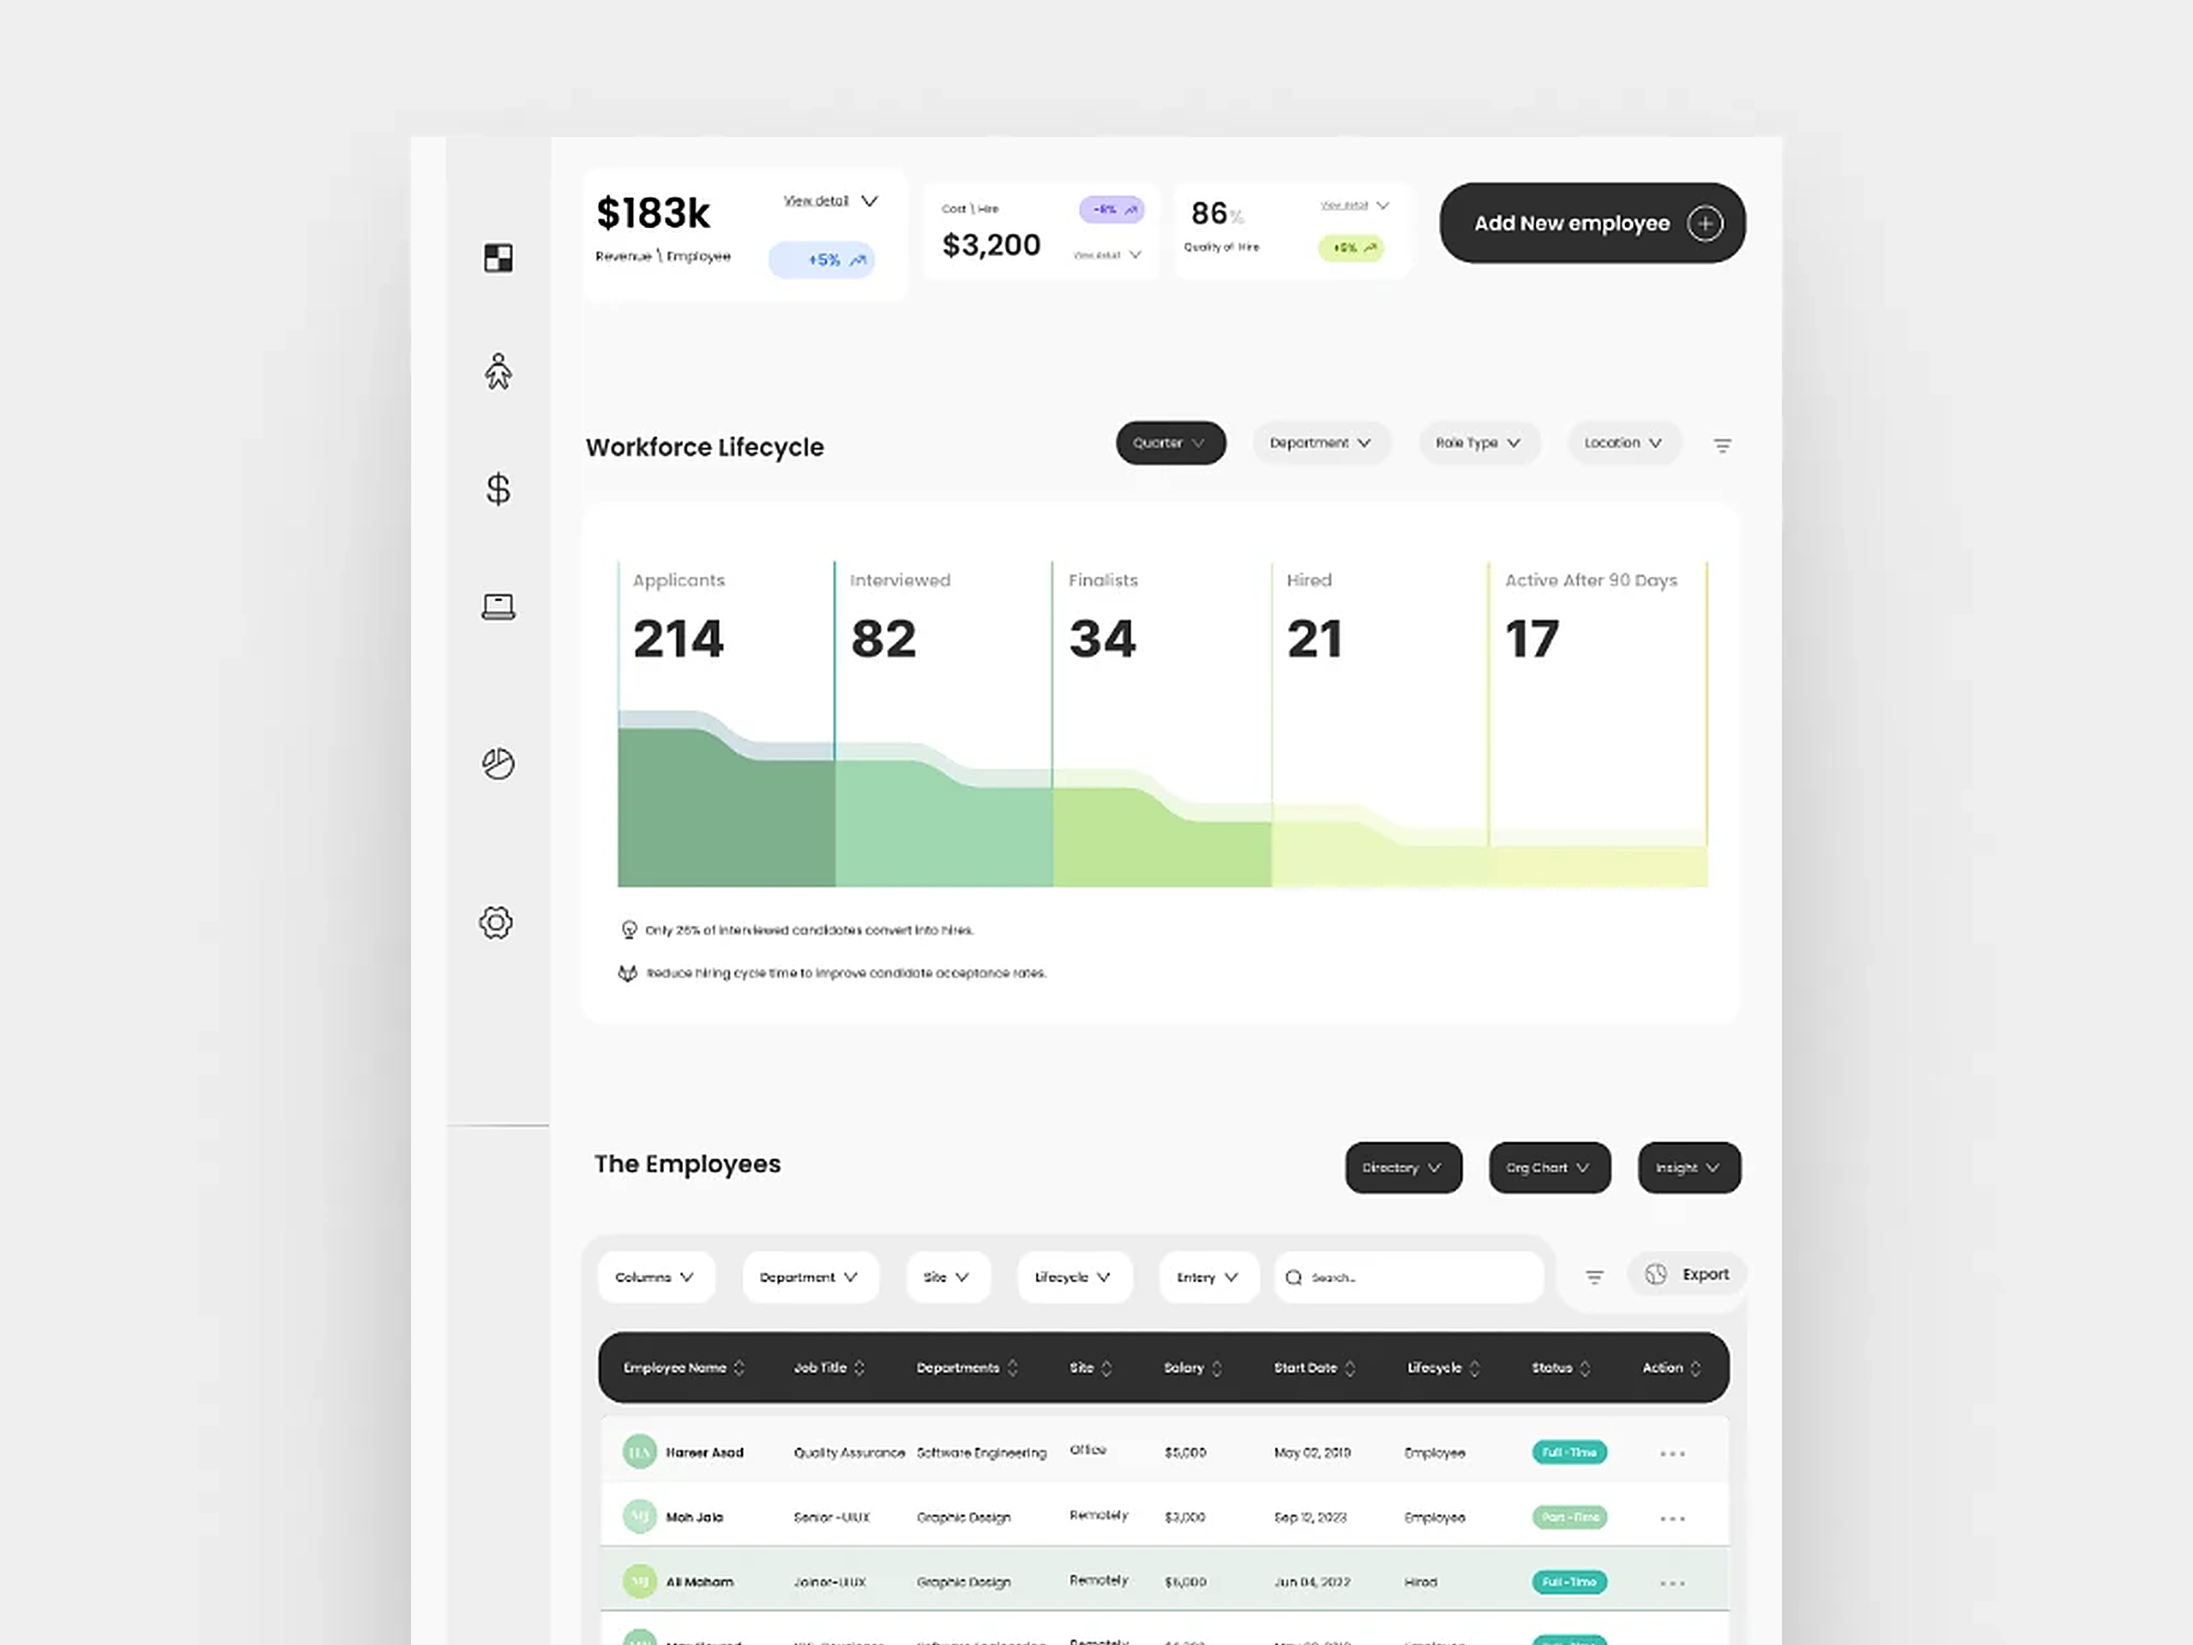
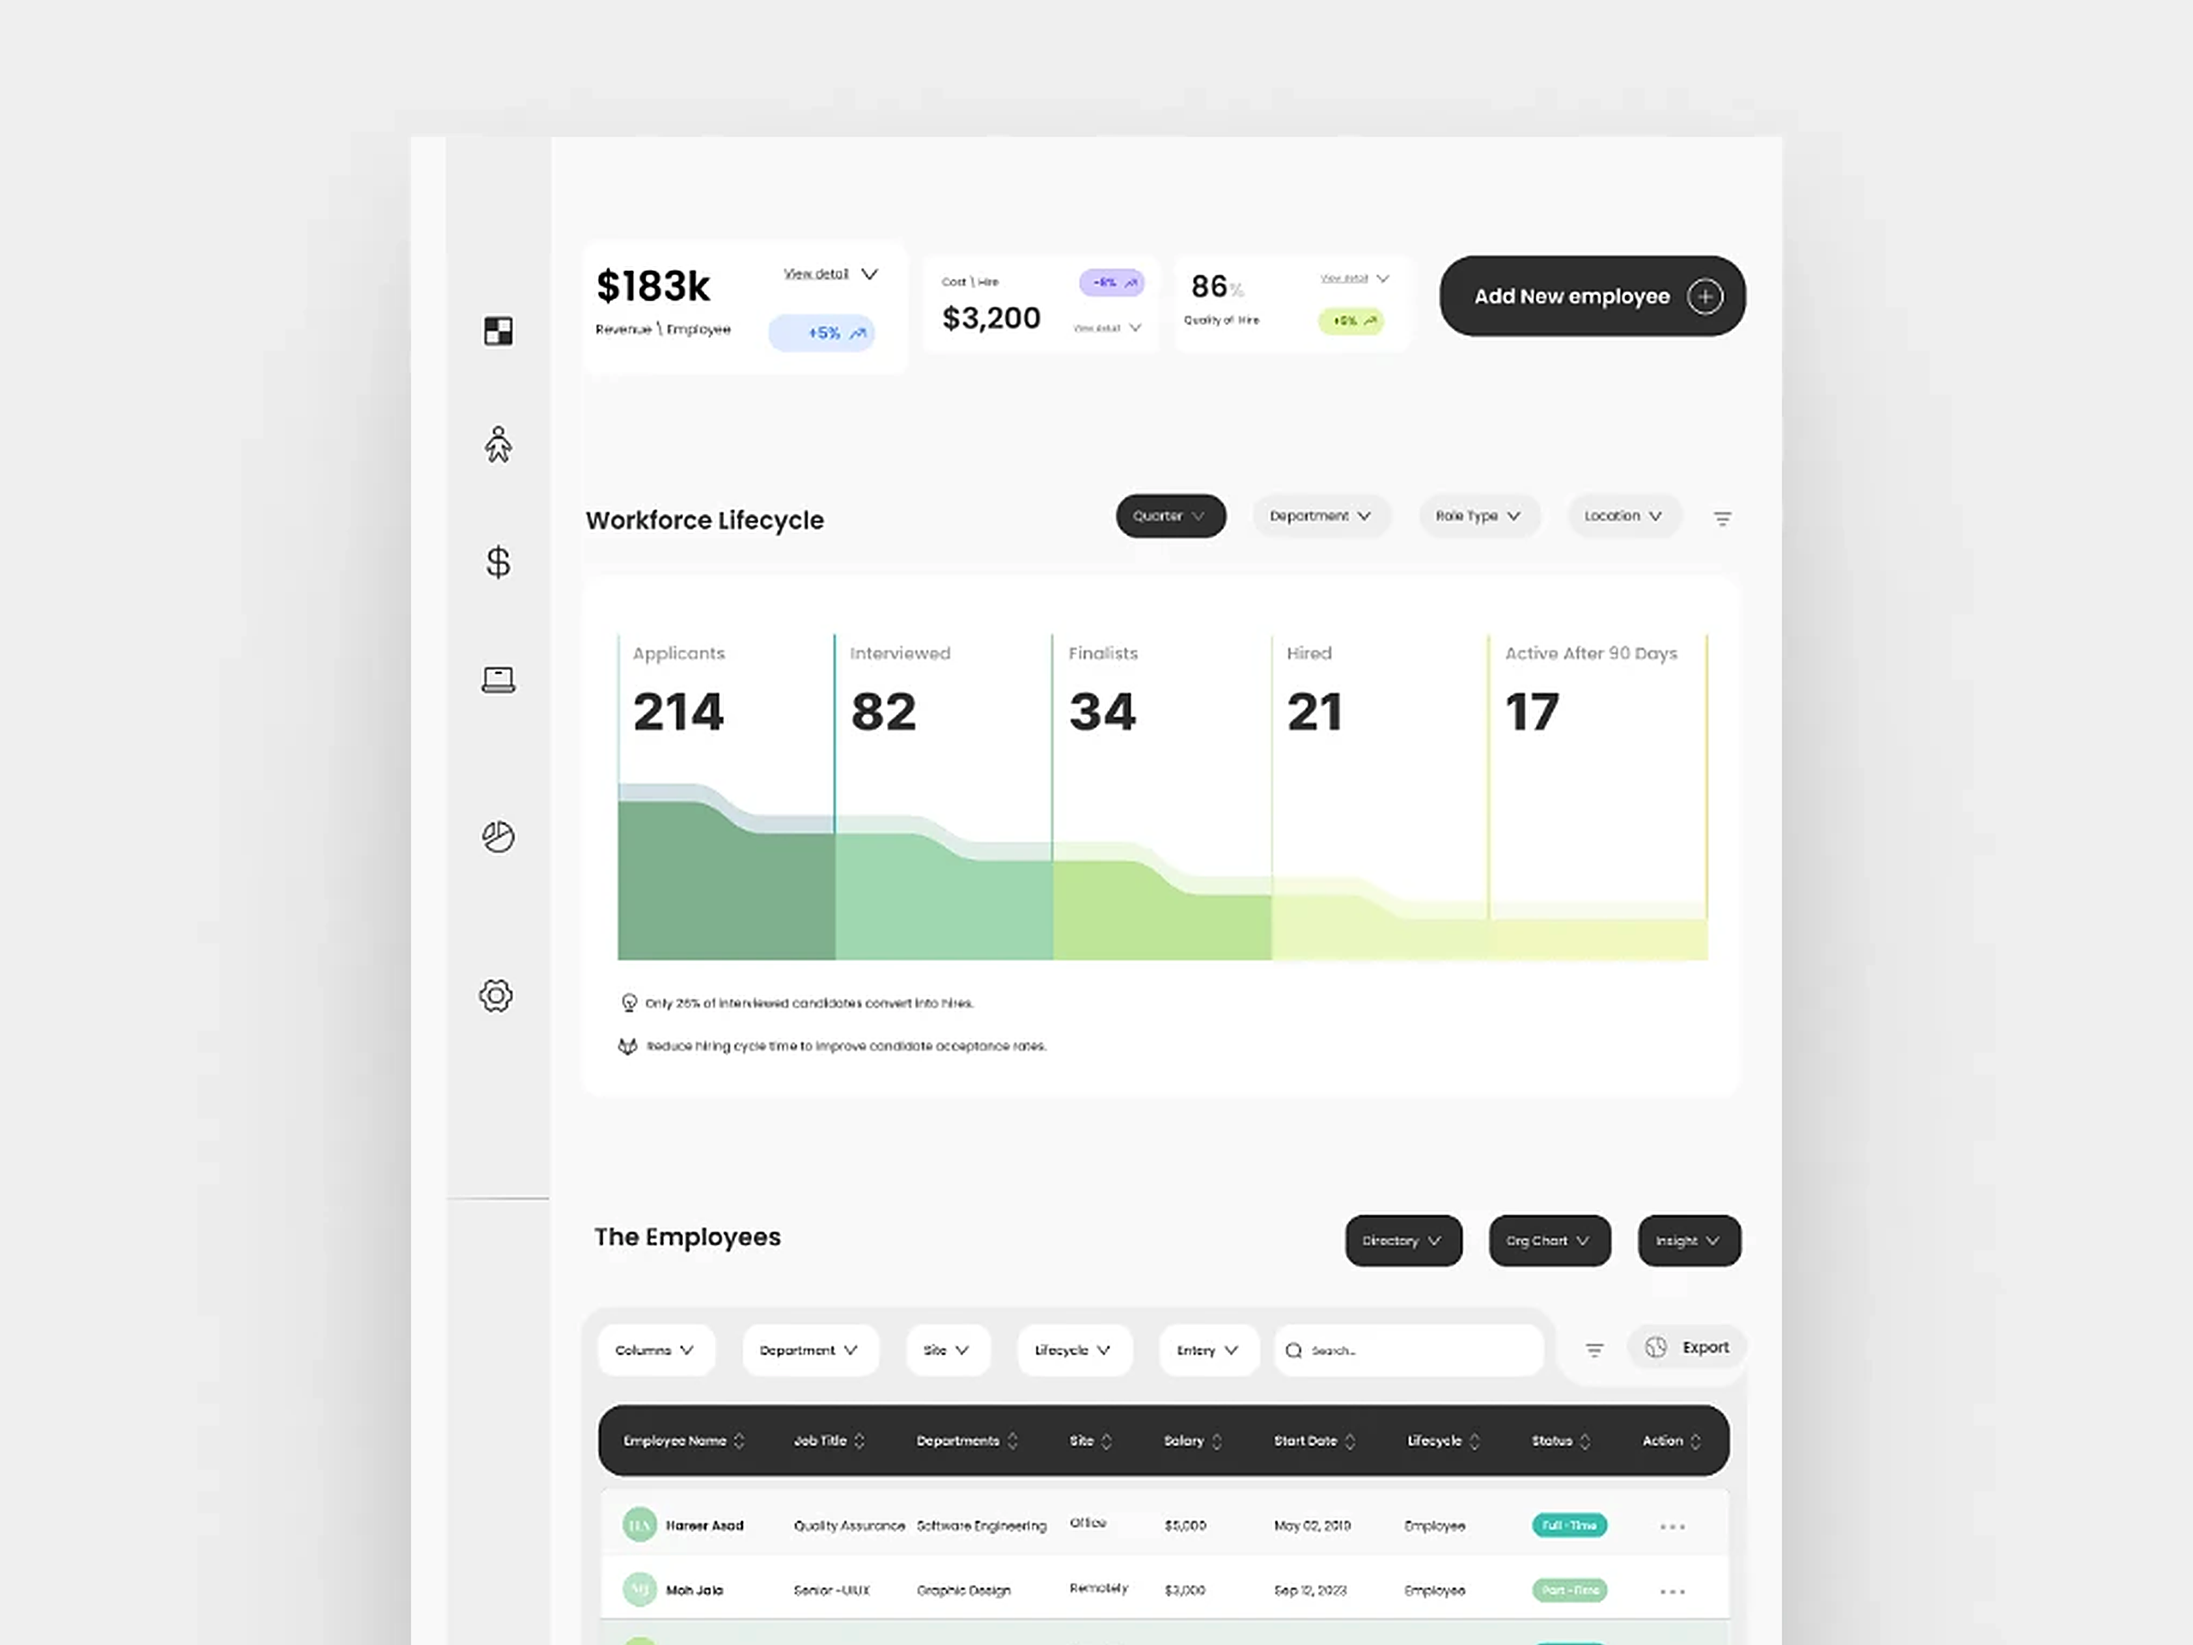
More top space: Employees card, Leave Requests monitor and every card of the tilted wall
Claude-Session: https://claude.ai/code/session_01FdYAnoP1AuAPuCnLWf7gdc

diff --git a/behance-cover/mockups/set28s.py b/behance-cover/mockups/set28s.py
@@ -8,7 +8,7 @@ I = '/tmp/claude-0/-home-user-claude-Ai-website-1/fd49522e-f0ff-52ed-b6c7-08cca4
 BG = (24, 24, 24)
 C_IN, C_OUT = (232, 232, 232), (232, 232, 232)   # flat soft neutral grey, as the Integration reference
 SN = {   # source, x0, y0, crop width, aspect
-    'heat':   ('224.jpg', -8, 826, 826, 1.78),     # Analytics: Productive Heat Map
+    'heat':   ('224.jpg', -47, 820, 904, 1.78),     # Analytics: Productive Heat Map
     'bubble': ('221.jpg', 180, 470, 1300, 1.67),   # Payroll: Efficiency Analysis bubbles
     'perf':   ('224.jpg', 100, 1420, 700, 1.67),    # Analytics: Performance Distribute
     'pipe':   ('222.jpg', 170, 790, 1175, 1.6),    # Projects: Pipeline Flow
@@ -35,7 +35,9 @@ GAP = 60
 def snap(key, w, h):
     f, x0, y0, cw, a = SN[key]; src = Image.open(I + f).convert('RGB'); ch = round(cw / a)
     page = src.getpixel((src.width // 2, src.height - 5))
-    c = Image.new('RGB', (cw, ch), page); c.paste(src.crop((max(x0, 0), y0, min(x0 + cw, src.width), min(y0 + ch, src.height))), (max(-x0, 0), 0))
+    pad = round(cw * 0.05)   # breathing room above each card's title: the crop's top row repeated
+    c = Image.new('RGB', (cw, ch), page); c.paste(src.crop((max(x0, 0), y0, min(x0 + cw, src.width), min(y0 + ch - pad, src.height))), (max(-x0, 0), pad))
+    row = c.crop((0, pad, cw, pad + 1)).resize((cw, pad)); c.paste(row, (0, 0))
     k = w / cw; c = c.resize((w, h), Image.LANCZOS)
     return c.point(lambda v: round(255 * (v / 255) ** 1.1)).filter(ImageFilter.UnsharpMask(radius=0.6 * k, percent=80, threshold=2))
 def render(F):

diff --git a/behance-cover/mockups/set29.py b/behance-cover/mockups/set29.py
@@ -14,9 +14,11 @@ sw = (math.dist(Q[0], Q[1]) + math.dist(Q[3], Q[2])) / 2; sh = (math.dist(Q[0], 
 page = Image.open(I + '229.jpg').convert('RGB')
 # a little space above "Requests In Numbers", down to the end of the first charts' notes; the band is
 # taller than the screen ratio, so it is centred on the page colour (no stretching)
-TOP, BOT = 178, 655
-h = BOT - TOP; w = round(h * r); bg = page.getpixel((page.width // 2, page.height - 5))
-band = Image.new('RGB', (w, h), bg); band.paste(page.crop((0, TOP, page.width, BOT)), ((w - page.width) // 2, 0))
+TOP, BOT = 180, 655; PAD = 34
+h = BOT - TOP + PAD; w = round(h * r); bg = page.getpixel((page.width // 2, page.height - 5))
+band = Image.new('RGB', (w, h), bg); import numpy as np
+pa = np.asarray(page); body = Image.fromarray(np.concatenate([np.repeat(pa[TOP:TOP + 1], PAD, 0), pa[TOP:BOT]], 0))
+band.paste(body, ((w - page.width) // 2, 0))
 src = band.resize((round(2600 * r), 2600), Image.LANCZOS)
 src = src.point(lambda v: round(255 * (v / 255) ** 1.12)).filter(ImageFilter.UnsharpMask(radius=2.4, percent=90, threshold=2))
 F = 2; W, H = 4000, 3000; SS = 2

diff --git a/behance-cover/mockups/set30.py b/behance-cover/mockups/set30.py
@@ -10,7 +10,10 @@ ImageDraw.Draw(page).rectangle((16, TOP - 6, 64, 187), fill=(241, 241, 241))   #
 F = 2.5; W, H = 4000, 3000
 out = base.resize((W, H), Image.LANCZOS)
 w, h = round((R - L) * F), round((1200 - T) * F); k = w / page.width
-p = page.resize((w, round(page.height * k)), Image.LANCZOS); y = round(TOP * k); p = p.crop((0, y, w, y + h))
+PAD = 34   # extra space above the KPIs (source px): the clean row at TOP repeated
+import numpy as np
+pa = np.asarray(page); page = Image.fromarray(np.concatenate([np.repeat(pa[TOP:TOP + 1], PAD, 0), pa[TOP:]], 0)); TOP2 = 0
+p = page.resize((w, round(page.height * k)), Image.LANCZOS); p = p.crop((0, 0, w, h))
 p = p.point(lambda v: round(255 * (v / 255) ** 1.12)).filter(ImageFilter.UnsharpMask(radius=0.7 * k, percent=90, threshold=2))
 out.paste(p, (round(L * F), round(T * F)))
 out.save('uw-hartt-employees-x4-4000.png', optimize=True)
